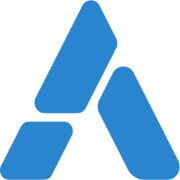
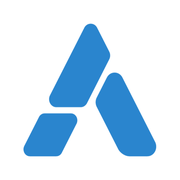
fix: icône Android et splash de la PWA, manifeste traduit selon la langue de l'appareil (#446)
Icônes opaques sur fond blanc (le PNG transparent donnait un fond noir au splash),
icône maskable dédiée dans la zone de sécurité, manifeste localisé fr/en d'après
Accept-Language.

Claude-Session: https://claude.ai/code/session_019M2BjxxjUPd1m9k3JJLKbd

diff --git a/server/manifestLocale.ts b/server/manifestLocale.ts
@@ -1,0 +1,42 @@
+// Le manifeste PWA n'a pas de mécanisme de traduction : le nom affiché sur
+// l'écran de lancement Android (splash) et la description sont ceux du fichier
+// servi. On les localise donc à la volée d'après Accept-Language, que Chrome
+// envoie avec la langue de l'appareil. Seules les langues de l'interface
+// (fr, en) existent ; toute autre retombe sur l'anglais, comme i18n.ts.
+
+export type ManifestLang = 'fr' | 'en';
+
+const LOCALIZED: Record<ManifestLang, { name: string; description: string }> = {
+  fr: {
+    name: "ArchiOffice - Gestion de cabinet d'architecture",
+    description: "Gestion de cabinet d'architecture : projets, propositions, factures et équipe.",
+  },
+  en: {
+    name: 'ArchiOffice - Architectural Office Management',
+    description: 'Architectural office management: projects, proposals, invoices and team.',
+  },
+};
+
+/** Langue préférée de l'en-tête Accept-Language (« fr-FR,fr;q=0.9,en;q=0.8 »). */
+export function pickManifestLang(acceptLanguage: string | undefined): ManifestLang {
+  const ranked = (acceptLanguage ?? '')
+    .split(',')
+    .map((part, index) => {
+      const [tag, ...params] = part.trim().split(';');
+      const q = params.map((p) => p.trim()).find((p) => p.startsWith('q='));
+      const weight = q ? Number.parseFloat(q.slice(2)) : 1;
+      return { lang: tag.trim().toLowerCase().slice(0, 2), weight: Number.isNaN(weight) ? 0 : weight, index };
+    })
+    .filter((entry) => entry.lang === 'fr' || entry.lang === 'en')
+    .sort((a, b) => b.weight - a.weight || a.index - b.index);
+  return (ranked[0]?.lang as ManifestLang | undefined) ?? 'en';
+}
+
+/** Copie du manifeste dont le nom et la description suivent la langue demandée. */
+export function localizeManifest<T extends Record<string, unknown>>(
+  manifest: T,
+  acceptLanguage: string | undefined,
+): T & { lang: ManifestLang; name: string; description: string } {
+  const lang = pickManifestLang(acceptLanguage);
+  return { ...manifest, lang, ...LOCALIZED[lang] };
+}

diff --git a/server.ts b/server.ts
@@ -143,6 +143,7 @@ import { startNotificationArchiver } from "./server/notificationArchiver";
 import { startLifecycleEmails } from "./server/lifecycleEmails";
 import { startPlanChanges } from "./server/planChanges";
 import { startDunning } from "./server/dunning";
+import { localizeManifest } from "./server/manifestLocale";
 import { PLAN_LIMITS } from "./src/lib/billing";
 
 // Memory storage — files are held in req.file.buffer, uploaded to Supabase Storage
@@ -1238,6 +1239,20 @@ export async function createApp() {
 
   } else {
     // Production serving
+    // Manifeste PWA localisé (nom du splash Android, description) selon la
+    // langue de l'appareil ; avant express.static pour prendre le pas sur le
+    // fichier statique, qui reste le repli s'il est illisible.
+    app.get("/manifest.webmanifest", (req, res, next) => {
+      try {
+        const raw = JSON.parse(fs.readFileSync(path.join(distPath, "manifest.webmanifest"), "utf-8"));
+        res
+          .type("application/manifest+json")
+          .set({ Vary: "Accept-Language", "Cache-Control": "no-cache" })
+          .send(JSON.stringify(localizeManifest(raw, req.headers["accept-language"])));
+      } catch {
+        next();
+      }
+    });
     app.use(express.static(distPath));
 
     // Specifically handle missing assets (like CSS, JS, etc.) to avoid sending index.html and causing loops

diff --git a/tests/manifestLocale.test.ts b/tests/manifestLocale.test.ts
@@ -1,0 +1,23 @@
+import { describe, it, expect } from 'vitest';
+import { pickManifestLang, localizeManifest } from '../server/manifestLocale';
+
+describe('manifeste PWA localisé', () => {
+  it('choisit le français pour un appareil francophone', () => {
+    expect(pickManifestLang('fr-FR,fr;q=0.9,en;q=0.8')).toBe('fr');
+  });
+  it('respecte les poids de qualité', () => {
+    expect(pickManifestLang('en;q=0.5,fr;q=0.9')).toBe('fr');
+    expect(pickManifestLang('fr;q=0.2,en-GB;q=0.8')).toBe('en');
+  });
+  it("retombe sur l'anglais pour une langue non gérée ou absente", () => {
+    expect(pickManifestLang('de-DE,de;q=0.9')).toBe('en');
+    expect(pickManifestLang(undefined)).toBe('en');
+  });
+  it('traduit le nom et la description sans toucher au reste', () => {
+    const m = localizeManifest({ icons: [1], display: 'standalone', name: 'x' }, 'fr-CA');
+    expect(m.name).toBe("ArchiOffice - Gestion de cabinet d'architecture");
+    expect(m.lang).toBe('fr');
+    expect(m.display).toBe('standalone');
+    expect(m.icons).toEqual([1]);
+  });
+});

diff --git a/vite.config.ts b/vite.config.ts
@@ -86,7 +86,10 @@ export default defineConfig(({mode}) => {
           icons: [
             { src: '/icon-192.png', sizes: '192x192', type: 'image/png' },
             { src: '/icon-512.png', sizes: '512x512', type: 'image/png' },
-            { src: '/icon-512.png', sizes: '512x512', type: 'image/png', purpose: 'maskable' },
+            // Icône masquable dédiée : fond blanc opaque et logo dans la zone de
+            // sécurité (≈ 56 %). Réutiliser l'icône « any » transparente la faisait
+            // rogner par le masque Android et laissait un fond noir au splash.
+            { src: '/icon-maskable-512.png', sizes: '512x512', type: 'image/png', purpose: 'maskable' },
           ],
         },
         workbox: {

diff --git a/CLAUDE.md b/CLAUDE.md
@@ -3106,6 +3106,22 @@ soit la préférence d'envoi de mail de la règle) et les mentions `@` de
 non par cabinet : `profiles.notification_prefs` (`{ muted: [catégories] }`),
 réglé depuis `src/components/PushNotificationsCard.tsx`.
 
+### Icône et écran de lancement de la PWA (Android)
+
+Les icônes de `public/` sont **opaques, fond blanc** : l'ancien PNG transparent
+plein cadre s'affichait sur fond noir au splash Android et, déclaré aussi
+`maskable`, était rogné par le masque (logo trop grand). `icon-192/512.png`
+(« any », logo à 62 %), `icon-maskable-512.png` (logo à 56 %, zone de sécurité)
+et `apple-touch-icon.png` sont régénérés ainsi ; ne pas remettre de
+transparence ni réutiliser l'icône « any » comme `maskable`.
+
+Le nom affiché au splash est celui du manifeste, sans mécanisme de traduction :
+`GET /manifest.webmanifest` (`server.ts`, production) le sert localisé d'après
+`Accept-Language` (`server/manifestLocale.ts`, fr/en, repli anglais, testé).
+Android fige nom et icône à l'installation du WebAPK : un appareil déjà
+installé doit réinstaller l'application, ou attendre la mise à jour que Chrome
+déclenche seul.
+
 ### Écran de démarrage (client Electron)
 
 `electron/splash.html` (+ `electron/splashPreload.cjs`) remplace la fenêtre
